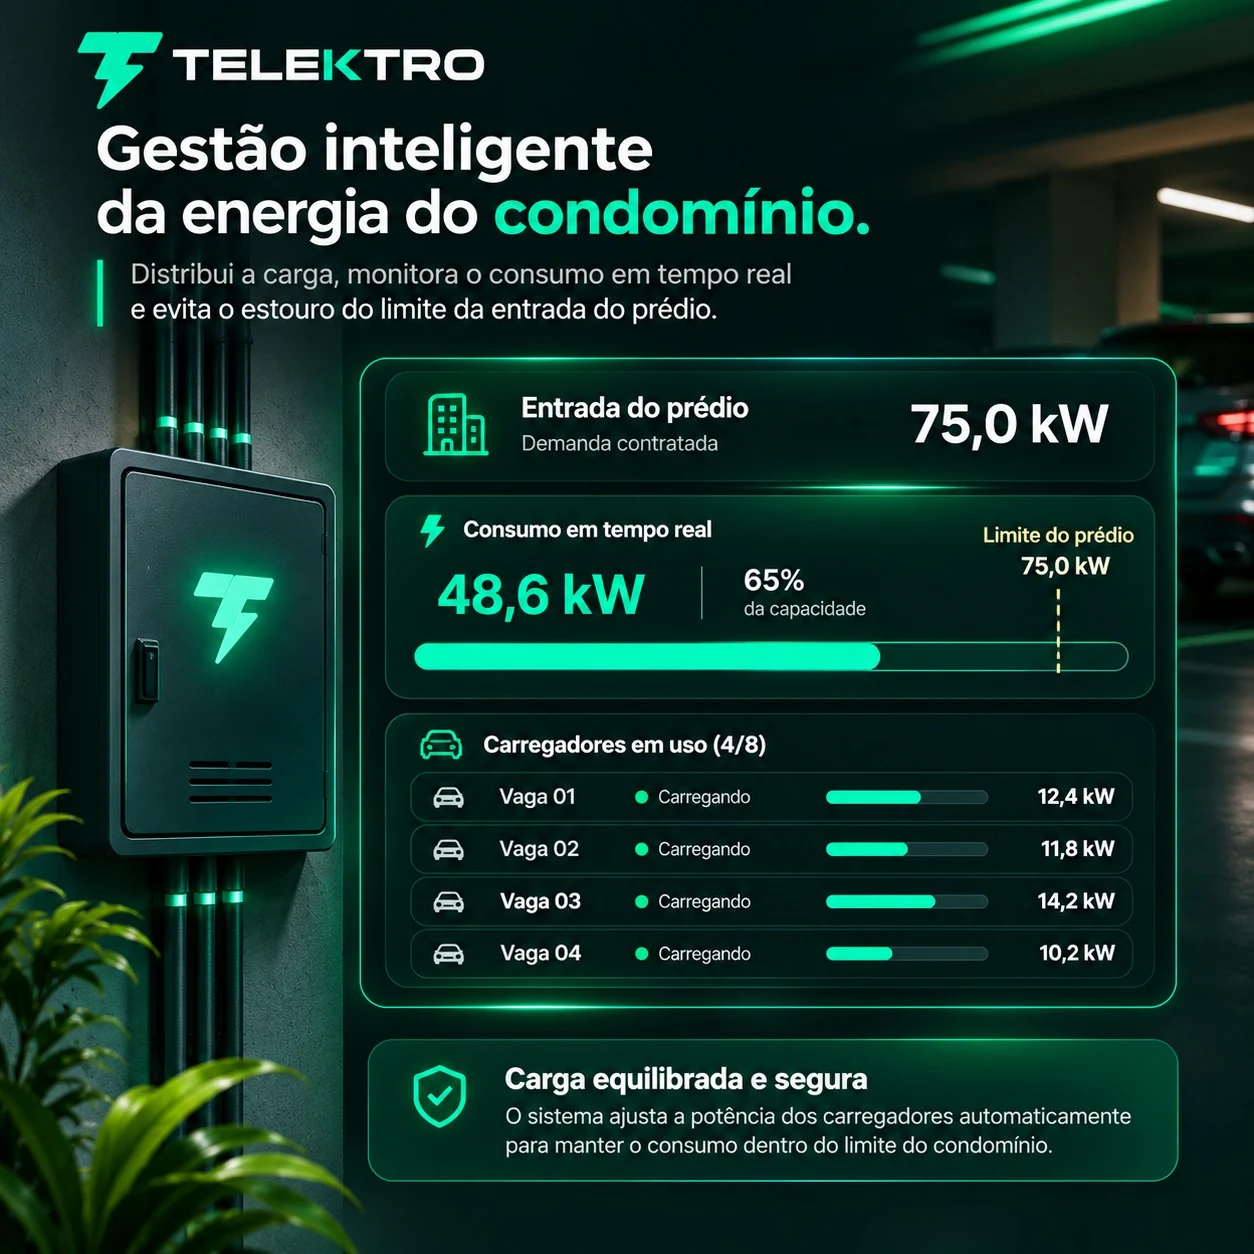
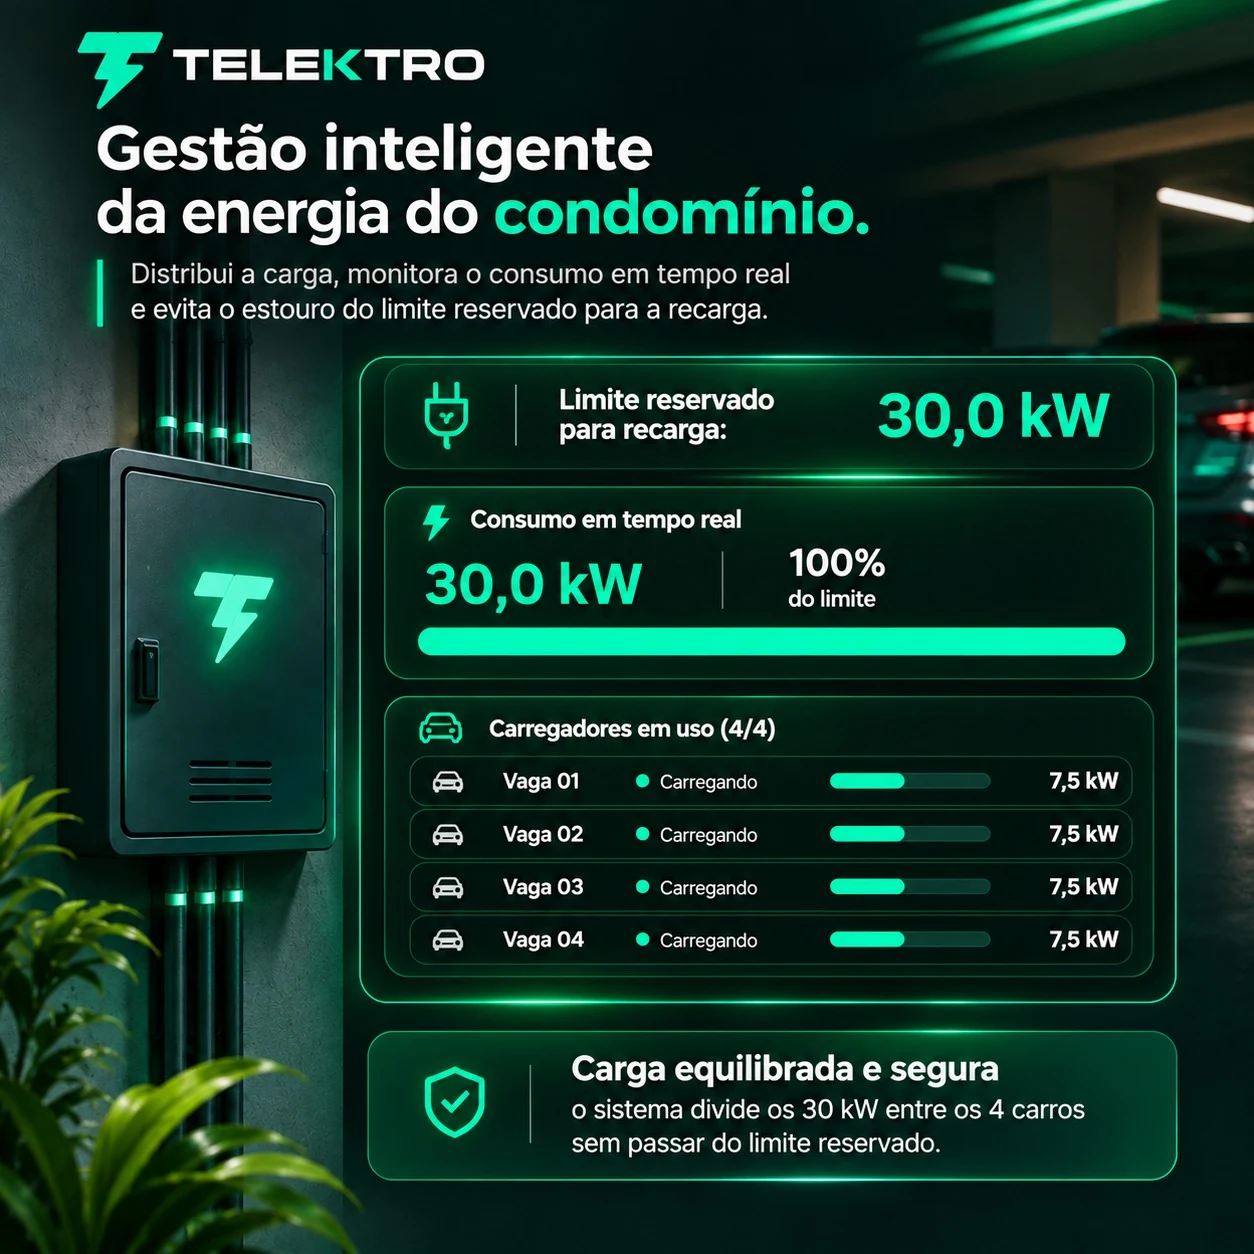
fix(web): painel de energia com limite reservado para recarga
- Substitui "Entrada do prédio 75 kW" por "Limite reservado para recarga: 30 kW"
- 4 carregadores a 7,5 kW cada, somando os 30 kW do exemplo da página

diff --git a/apps/web/src/components/condo-landing.tsx b/apps/web/src/components/condo-landing.tsx
@@ -202,7 +202,7 @@ export function CondoLanding() {
           <figure className="cl-illustration">
             {/* Illustrative artwork, not a real customer dashboard screenshot. */}
             {/* eslint-disable-next-line @next/next/no-img-element */}
-            <img src="/showcase/condominio-painel.webp" alt="Ilustração do painel Telektro mostrando a entrada de energia do prédio, o consumo em tempo real e o limite de potência dos carregadores" loading="lazy"/>
+            <img src="/showcase/condominio-painel.webp" alt="Ilustração do painel Telektro mostrando o limite reservado para recarga de 30 kW, o consumo em tempo real e quatro carregadores dividindo a potência" loading="lazy"/>
             <figcaption>Ilustração com valores de exemplo. O limite real vem do projeto elétrico de cada prédio.</figcaption>
           </figure>
           <div className="cl-controls">
